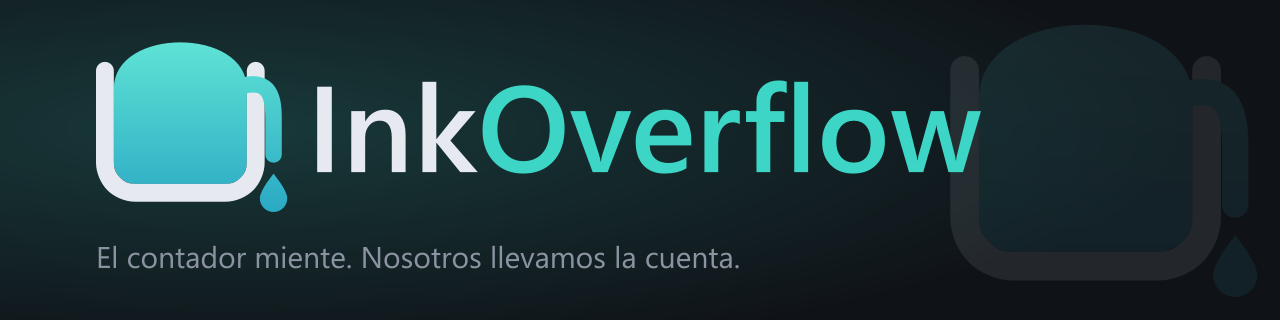
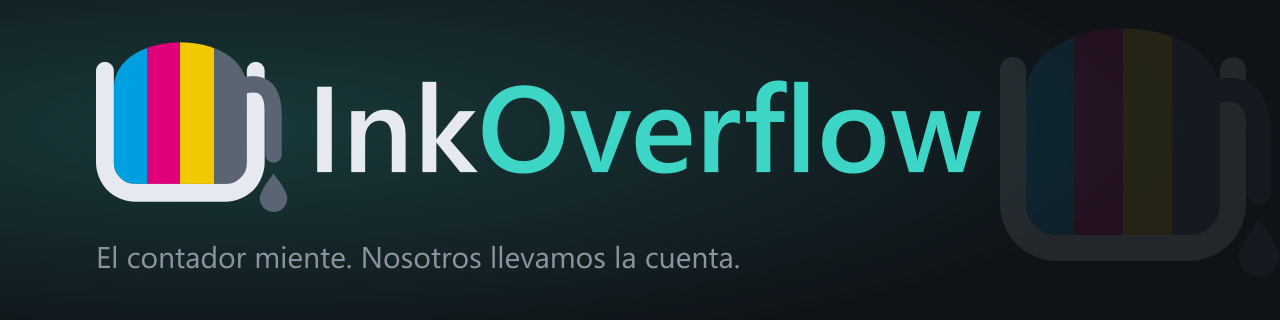
Icono y splash: tinta CMYK de 4 colores, fondo transparente y texto dentro de la tinta

Changed region(s): [[0.0625, 0.125, 0.25, 0.6562]]

diff --git a/splash.py b/splash.py
@@ -1,4 +1,5 @@
-"""Start-up screen: the brand's cup filling with ink while the model database loads.
+"""Start-up screen: the brand's cup, as wide as the window, filling with CMYK ink while the
+model database loads. All the text lives inside the cup, on top of the ink.
 
 The level creeps towards 85 % on its own; finish() fills it to the brim, lets one drop
 overflow and then closes the splash and runs the callback (showing the main window).
@@ -7,27 +8,27 @@ import math
 import random
 
 from PySide6.QtCore import QPointF, QRectF, Qt, QTimer
-from PySide6.QtGui import QColor, QFont, QGuiApplication, QLinearGradient, QPainter, QPainterPath, QPen
+from PySide6.QtGui import QColor, QFont, QFontMetricsF, QGuiApplication, QLinearGradient, QPainter, QPainterPath, QPen
 from PySide6.QtWidgets import QWidget
 
 OUTLINE = QColor("#1b2028")
-INK_TOP = QColor("#5fe3d5")
-INK_BOTTOM = QColor("#2aa9c4")
 TEAL = QColor("#11869a")
+CMYK = (QColor("#00a0e0"), QColor("#e0007a"), QColor("#f2c800"), QColor("#1f2328"))
 
 
 class InkSplash(QWidget):
     W, H = 500, 300
-    CUP = QRectF(48, 70, 132, 168)   # inside of the cup
+    CUP = QRectF(30, 52, 440, 214)   # inside of the cup (the whole window)
 
     def __init__(self, app_name, tagline="El contador miente. Nosotros llevamos la cuenta."):
         super().__init__(None, Qt.SplashScreen | Qt.FramelessWindowHint | Qt.WindowStaysOnTopHint)
         self.app_name, self.tagline = app_name, tagline
         self.setFixedSize(self.W, self.H)
         self.setAttribute(Qt.WA_DeleteOnClose)
-        self.level, self.phase = 0.0, 0.0
+        self.setAttribute(Qt.WA_TranslucentBackground)
+        self.level, self.phase = 0.2, 0.0
         self.message = "Iniciando..."
-        self.drops = []            # [x, y, speed] of drops falling into the cup
+        self.drops = []            # [x, y, speed, colour] of drops falling into the cup
         self.spill = None          # y of the drop running down the outside once full
         self._done = None          # callback once full; None while still loading
         self._hold = 0             # ticks spent full before closing
@@ -57,8 +58,8 @@ class InkSplash(QWidget):
         elif self.level < 1.0:
             self.level = min(1.0, self.level + max(0.012, (1.0 - self.level) * 0.09))
         if self.level < 0.995 and random.random() < 0.22:
-            self.drops.append([self.CUP.center().x() + random.uniform(-10, 10), 6.0,
-                               random.uniform(3.5, 5.5)])
+            self.drops.append([random.uniform(self.CUP.left() + 20, self.CUP.right() - 20), 6.0,
+                               random.uniform(3.5, 5.5), random.randrange(4)])
         surface = self._surface_y()
         for drop in self.drops:
             drop[1] += drop[2]
@@ -97,13 +98,6 @@ class InkSplash(QWidget):
     def paintEvent(self, _):
         p = QPainter(self)
         p.setRenderHint(QPainter.Antialiasing)
-        # window: white with a classic thin frame and a teal title strip
-        p.fillRect(self.rect(), QColor("#ffffff"))
-        p.fillRect(QRectF(0, 0, self.W, 4), TEAL)
-        p.setPen(QPen(QColor("#8d96a1"), 1))
-        p.setBrush(Qt.NoBrush)
-        p.drawRect(QRectF(0.5, 0.5, self.W - 1, self.H - 1))
-
         cup = self._cup_path()
         c = self.CUP
         # glass and ink
@@ -122,17 +116,24 @@ class InkSplash(QWidget):
             x += 2
         wave.lineTo(c.right() + 2, c.bottom() + 2)
         wave.closeSubpath()
-        grad = QLinearGradient(0, c.top(), 0, c.bottom())
-        grad.setColorAt(0, INK_TOP)
-        grad.setColorAt(1, INK_BOTTOM)
+        ink = wave.intersected(cup)
         p.save()
         p.setClipPath(cup)
-        p.setBrush(grad)
-        p.drawPath(wave.intersected(cup))
+        band = c.width() / 4
+        for i, color in enumerate(CMYK):   # four vertical bands: C M Y K
+            p.save()
+            p.setClipRect(QRectF(c.left() + i * band, 0, band + (1 if i < 3 else 8), self.H),
+                          Qt.IntersectClip)
+            grad = QLinearGradient(0, c.top(), 0, c.bottom())
+            grad.setColorAt(0, color.lighter(118))
+            grad.setColorAt(1, color)
+            p.setBrush(grad)
+            p.drawPath(ink)
+            p.restore()
         # a few bubbles rising in the ink
         p.setBrush(QColor(255, 255, 255, 90))
-        for i in range(5):
-            bx = c.left() + 18 + i * 24
+        for i in range(9):
+            bx = c.left() + 26 + i * 50
             by = c.bottom() - ((self.phase * 9 + i * 37) % max(1.0, c.bottom() - surface))
             if by > surface + 6:
                 p.drawEllipse(QPointF(bx + 3 * math.sin(self.phase + i), by), 2.2, 2.2)
@@ -142,13 +143,12 @@ class InkSplash(QWidget):
         p.setFont(QFont("Segoe UI", 7))
         for pct in (25, 50, 75):
             y = c.bottom() - c.height() * pct / 100
-            p.setPen(QPen(QColor(27, 32, 40, 150), 1.2))
-            p.drawLine(QPointF(c.left() + 4, y), QPointF(c.left() + 16, y))
-            p.drawText(QPointF(c.left() + 19, y + 3), f"{pct}")
+            p.setPen(QPen(QColor(255, 255, 255, 200) if y > surface else QColor(27, 32, 40, 150), 1.2))
+            p.drawLine(QPointF(c.left() + 4, y), QPointF(c.left() + 14, y))
 
-        # cup outline, as in the logo
-        pen = QPen(OUTLINE, 9, Qt.SolidLine, Qt.RoundCap, Qt.RoundJoin)
-        p.setPen(pen)
+        # cup outline, as in the logo (white halo so it reads on any desktop)
+        pen = QPen(QColor("#ffffff"), 15, Qt.SolidLine, Qt.RoundCap, Qt.RoundJoin)
+        halo_pen, pen = pen, QPen(OUTLINE, 9, Qt.SolidLine, Qt.RoundCap, Qt.RoundJoin)
         p.setBrush(Qt.NoBrush)
         r = 26.0
         outline = QPainterPath()
@@ -158,47 +158,53 @@ class InkSplash(QWidget):
         outline.lineTo(c.right() - r, c.bottom() + 4.5)
         outline.quadTo(c.right() + 4.5, c.bottom() + 4.5, c.right() + 4.5, c.bottom() - r)
         outline.lineTo(c.right() + 4.5, c.top() - 18)
+        p.setPen(halo_pen)
+        p.drawPath(outline)
+        p.setPen(pen)
         p.drawPath(outline)
 
         # drops falling in
         p.setPen(Qt.NoPen)
-        p.setBrush(INK_BOTTOM)
-        for x, y, _speed in self.drops:
+        for x, y, _speed, ci in self.drops:
+            p.setBrush(CMYK[ci])
             self._drop(p, x, y, 4.2)
         # overflow: one drop running down the outside of the right wall
         if self.spill is not None:
-            p.setBrush(INK_TOP)
+            p.setBrush(CMYK[3])
             sx = c.right() + 11
             if self.spill < c.bottom():
                 trail = QRectF(sx - 2.2, c.top() - 18, 4.4, self.spill - c.top() + 18)
                 p.drawRoundedRect(trail, 2.2, 2.2)
-            self._drop(p, sx, min(self.spill, c.bottom() + 30), 5.5)
+            self._drop(p, sx, min(self.spill, c.bottom() + 24), 5.5)
 
-        # text
-        tx = 230
-        p.setPen(OUTLINE)
-        p.setFont(QFont("Segoe UI", 26, QFont.Bold))
-        ink_w = p.fontMetrics().horizontalAdvance("Ink")
+        # text: everything sits inside the cup; a white halo keeps it legible on every colour
+        tx = c.left() + 36
         name = self.app_name
+        name_font = QFont("Segoe UI", 26, QFont.Bold)
         if name.startswith("Ink"):
-            p.drawText(QPointF(tx, 118), "Ink")
-            p.setPen(TEAL)
-            p.drawText(QPointF(tx + ink_w, 118), name[3:])
+            ink_w = QFontMetricsF(name_font).horizontalAdvance("Ink")
+            self._text(p, tx, 128, "Ink", name_font, OUTLINE)
+            self._text(p, tx + ink_w, 128, name[3:], name_font, TEAL.darker(130))
         else:
-            p.drawText(QPointF(tx, 118), name)
-        p.setPen(QColor("#5f6670"))
-        p.setFont(QFont("Segoe UI", 9))
-        p.drawText(QRectF(tx, 128, self.W - tx - 20, 40), Qt.TextWordWrap, self.tagline)
+            self._text(p, tx, 128, name, name_font, OUTLINE)
+        self._text(p, tx, 156, self.tagline, QFont("Segoe UI", 10), QColor("#10151c"))
+        self._text(p, tx, 206, self.message, QFont("Segoe UI", 10), QColor("#10151c"))
+        self._text(p, tx, 240, f"{min(self.level, 1.0) * 100:.0f} %",
+                   QFont("Segoe UI", 18, QFont.DemiBold), OUTLINE)
+        small = QFont("Segoe UI", 9)
+        self._text(p, c.right() - 28 - QFontMetricsF(small).horizontalAdvance("MAG Tecnología"),
+                   240, "MAG Tecnología", small, QColor("#10151c"))
 
-        p.setPen(QColor("#1b1f24"))
-        p.setFont(QFont("Segoe UI", 9))
-        p.drawText(QPointF(tx, 206), self.message)
-        p.setPen(TEAL)
-        p.setFont(QFont("Segoe UI", 18, QFont.DemiBold))
-        p.drawText(QPointF(tx, 236), f"{min(self.level, 1.0) * 100:.0f} %")
-        p.setPen(QColor("#8d96a1"))
-        p.setFont(QFont("Segoe UI", 8))
-        p.drawText(QPointF(tx, self.H - 18), "MAG Tecnología")
+    @staticmethod
+    def _text(p, x, y, text, font, color):
+        path = QPainterPath()
+        path.addText(x, y, font, text)
+        p.setBrush(Qt.NoBrush)
+        p.setPen(QPen(QColor(255, 255, 255, 235), 4.5, Qt.SolidLine, Qt.RoundCap, Qt.RoundJoin))
+        p.drawPath(path)
+        p.setPen(Qt.NoPen)
+        p.setBrush(color)
+        p.drawPath(path)
 
     @staticmethod
     def _drop(p, x, y, size):

diff --git a/brand/make_brand.py b/brand/make_brand.py
@@ -2,7 +2,7 @@
 
 Regenerate everything with:   .venv\\Scripts\\python.exe brand\\make_brand.py
 
-The mark is a cup (the waste-ink pad) whose ink domes over the rim and runs down the
+The mark is a cup (the waste-ink pad) whose four-colour (CMYK) ink domes over the rim and runs down the
 outside: overflow. Text is converted to outlines with Qt, so the SVGs do not depend on
 any installed font. Colours come from the application's own palette (widgets.C).
 """
@@ -20,9 +20,9 @@ HERE = Path(__file__).resolve().parent
 NAME = "InkOverflow"
 TAGLINE = "El contador miente. Nosotros llevamos la cuenta."
 
-INK_TOP, INK_BOTTOM = "#5fe3d5", "#2aa9c4"
-DARK = {"cup": "#e6e9ef", "word": "#e6e9ef", "flow": "#3dd6c6", "muted": "#8b93a1"}
-LIGHT = {"cup": "#17202b", "word": "#17202b", "flow": "#0e93a8", "muted": "#5b6270"}
+CYAN, MAGENTA, YELLOW = "#00a0e0", "#e0007a", "#f2c800"
+DARK = {"cup": "#e6e9ef", "word": "#e6e9ef", "flow": "#3dd6c6", "muted": "#8b93a1", "k": "#5b6472"}
+LIGHT = {"cup": "#17202b", "word": "#17202b", "flow": "#0e93a8", "muted": "#5b6270", "k": "#1f2328"}
 ICON_SIZES = (16, 24, 32, 48, 64, 128, 256, 512)
 ICO_SIZES = (16, 24, 32, 48, 64, 128, 256)
 
@@ -31,41 +31,47 @@ MARK_BOX = (133, 172, 416, 420)
 
 
 # -- the mark -------------------------------------------------------------------------
-def mark_group(cup: str, defs: bool = True) -> str:
-    """Cup, ink dome above the rim, a stream over the wall and the falling drop."""
-    gradient = (f'<defs><linearGradient id="ink" gradientUnits="userSpaceOnUse" x1="0" y1="170" '
-                f'x2="0" y2="420"><stop offset="0" stop-color="{INK_TOP}"/>'
-                f'<stop offset="1" stop-color="{INK_BOTTOM}"/></linearGradient></defs>') if defs else ""
+def mark_group(cup: str, defs: bool = True, k: str = "#1f2328", halo: str = "") -> str:
+    """Cup, four-colour ink dome above the rim (C M Y K), a stream over the wall and the drop."""
+    shape = "M159 240C159 150 353 150 353 240V348A31 31 0 0 1 322 379H190A31 31 0 0 1 159 348Z"
+    stops = "".join(f'<stop offset="{o}" stop-color="{c}"/>' for o, c in (
+        (0, CYAN), (0.25, CYAN), (0.25, MAGENTA), (0.5, MAGENTA),
+        (0.5, YELLOW), (0.75, YELLOW), (0.75, k), (1, k)))
+    head = (f'<defs><linearGradient id="cmyk" gradientUnits="userSpaceOnUse" x1="159" y1="0" '
+            f'x2="353" y2="0">{stops}</linearGradient></defs>') if defs else ""
+    outline = "M146 214V348A44 44 0 0 0 190 392H322A44 44 0 0 0 366 348V214"
+    stream = "M340 238C382 224 392 246 392 282V336"
+    drop = "M392 364C392 364 372 388 372 400A20 20 0 0 0 412 400C412 388 392 364 392 364Z"
+    ring = (f'<path d="{outline}" fill="none" stroke="{halo}" stroke-width="40" stroke-linecap="round" '
+            f'stroke-linejoin="round"/><path d="{stream}" fill="none" stroke="{halo}" stroke-width="38" '
+            f'stroke-linecap="round"/><path d="{drop}" fill="{halo}" stroke="{halo}" stroke-width="14" '
+            f'stroke-linejoin="round"/>') if halo else ""
     return (
-        gradient +
-        '<path d="M159 240C159 150 353 150 353 240V348A31 31 0 0 1 322 379H190'
-        'A31 31 0 0 1 159 348Z" fill="url(#ink)"/>'
+        head + ring +
+        f'<path d="{shape}" fill="url(#cmyk)"/>'
         f'<path d="M146 214V348A44 44 0 0 0 190 392H322A44 44 0 0 0 366 348V214" fill="none" '
         f'stroke="{cup}" stroke-width="26" stroke-linecap="round" stroke-linejoin="round"/>'
-        '<path d="M340 238C382 224 392 246 392 282V336" fill="none" stroke="url(#ink)" '
+        f'<path d="M340 238C382 224 392 246 392 282V336" fill="none" stroke="{k}" '
         'stroke-width="24" stroke-linecap="round"/>'
         '<path d="M392 364C392 364 372 388 372 400A20 20 0 0 0 412 400C412 388 392 364 392 364Z" '
-        'fill="url(#ink)"/>')
+        f'fill="{k}"/>')
 
 
 def icon_svg() -> str:
-    """App icon: the mark on a dark rounded tile."""
+    """App icon: the four-colour mark on a transparent background, with a white halo so it
+    reads on dark and light taskbars alike."""
     cx, cy = (MARK_BOX[0] + MARK_BOX[2]) / 2, (MARK_BOX[1] + MARK_BOX[3]) / 2
     return (
         '<svg xmlns="http://www.w3.org/2000/svg" viewBox="0 0 512 512" width="512" height="512">'
-        '<defs><linearGradient id="tile" x1="0" y1="0" x2="0" y2="1"><stop offset="0" '
-        'stop-color="#1d2531"/><stop offset="1" stop-color="#0f1217"/></linearGradient></defs>'
-        '<rect x="8" y="8" width="496" height="496" rx="112" fill="url(#tile)" '
-        'stroke="#2a3340" stroke-width="4"/>'
-        f'<g transform="translate(256 256) scale(1.18) translate({-cx} {-cy})">'
-        f'{mark_group(DARK["cup"])}</g></svg>')
+        f'<g transform="translate(256 256) scale(1.3) translate({-cx} {-cy})">'
+        f'{mark_group(LIGHT["cup"], k=LIGHT["k"], halo="#ffffff")}</g></svg>')
 
 
 def mark_svg(theme: Dict[str, str]) -> str:
     x, y, r, b = MARK_BOX
     pad = 16
     return (f'<svg xmlns="http://www.w3.org/2000/svg" viewBox="{x - pad} {y - pad} '
-            f'{r - x + 2 * pad} {b - y + 2 * pad}">{mark_group(theme["cup"])}</svg>')
+            f'{r - x + 2 * pad} {b - y + 2 * pad}">{mark_group(theme["cup"], k=theme["k"])}</svg>')
 
 
 # -- text as outlines -------------------------------------------------------------------
@@ -119,7 +125,7 @@ def logo_block(theme: Dict[str, str], mark_h: float = 170, defs: bool = True):
     ty = mark_h / 2 - (bounds.top() + bounds.bottom()) / 2
     fragment = (
         f'<g transform="translate({-MARK_BOX[0] * scale:.2f} {-MARK_BOX[1] * scale:.2f}) '
-        f'scale({scale:.4f})">{mark_group(theme["cup"], defs)}</g>'
+        f'scale({scale:.4f})">{mark_group(theme["cup"], defs, theme["k"])}</g>'
         f'<path d="{svg_path(ink, tx, ty)}" fill="{theme["word"]}"/>'
         f'<path d="{svg_path(flow, tx, ty)}" fill="{theme["flow"]}"/>')
     return fragment, tx + bounds.right(), mark_h
@@ -139,7 +145,7 @@ def banner_svg() -> str:
     tag_font = ui_font(30, QFont.Weight.Normal)
     tag = text_path(TAGLINE, tag_font)
     x0 = 96
-    watermark = mark_group(DARK["cup"], defs=False)
+    watermark = mark_group(DARK["cup"], defs=False, k=DARK["k"])
     return (
         f'<svg xmlns="http://www.w3.org/2000/svg" viewBox="0 0 {width} {height}" '
         f'width="{width}" height="{height}">'
